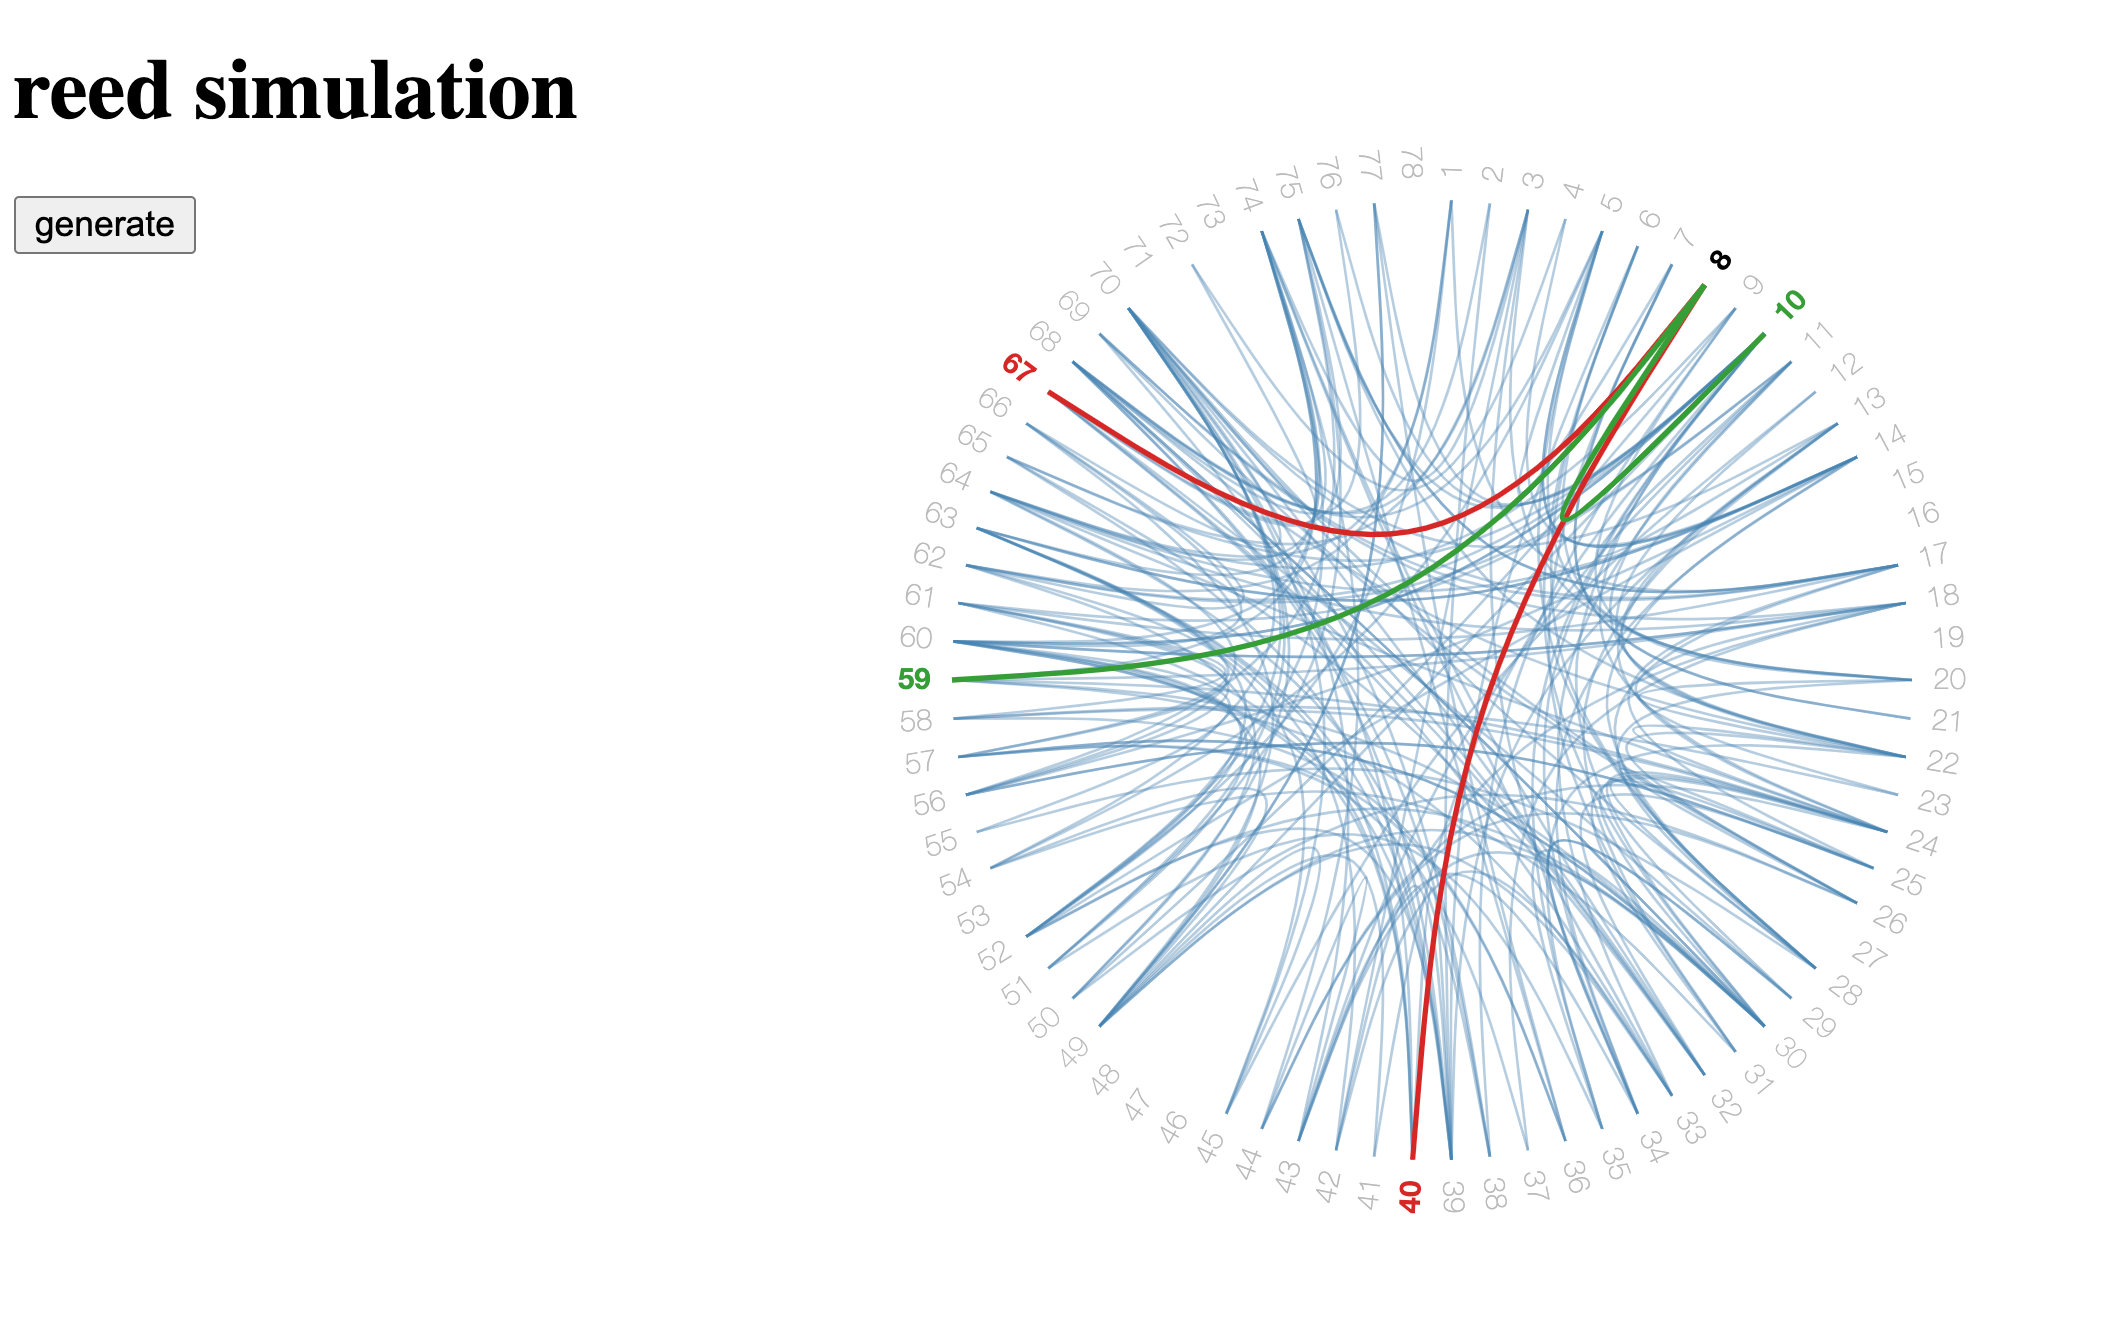
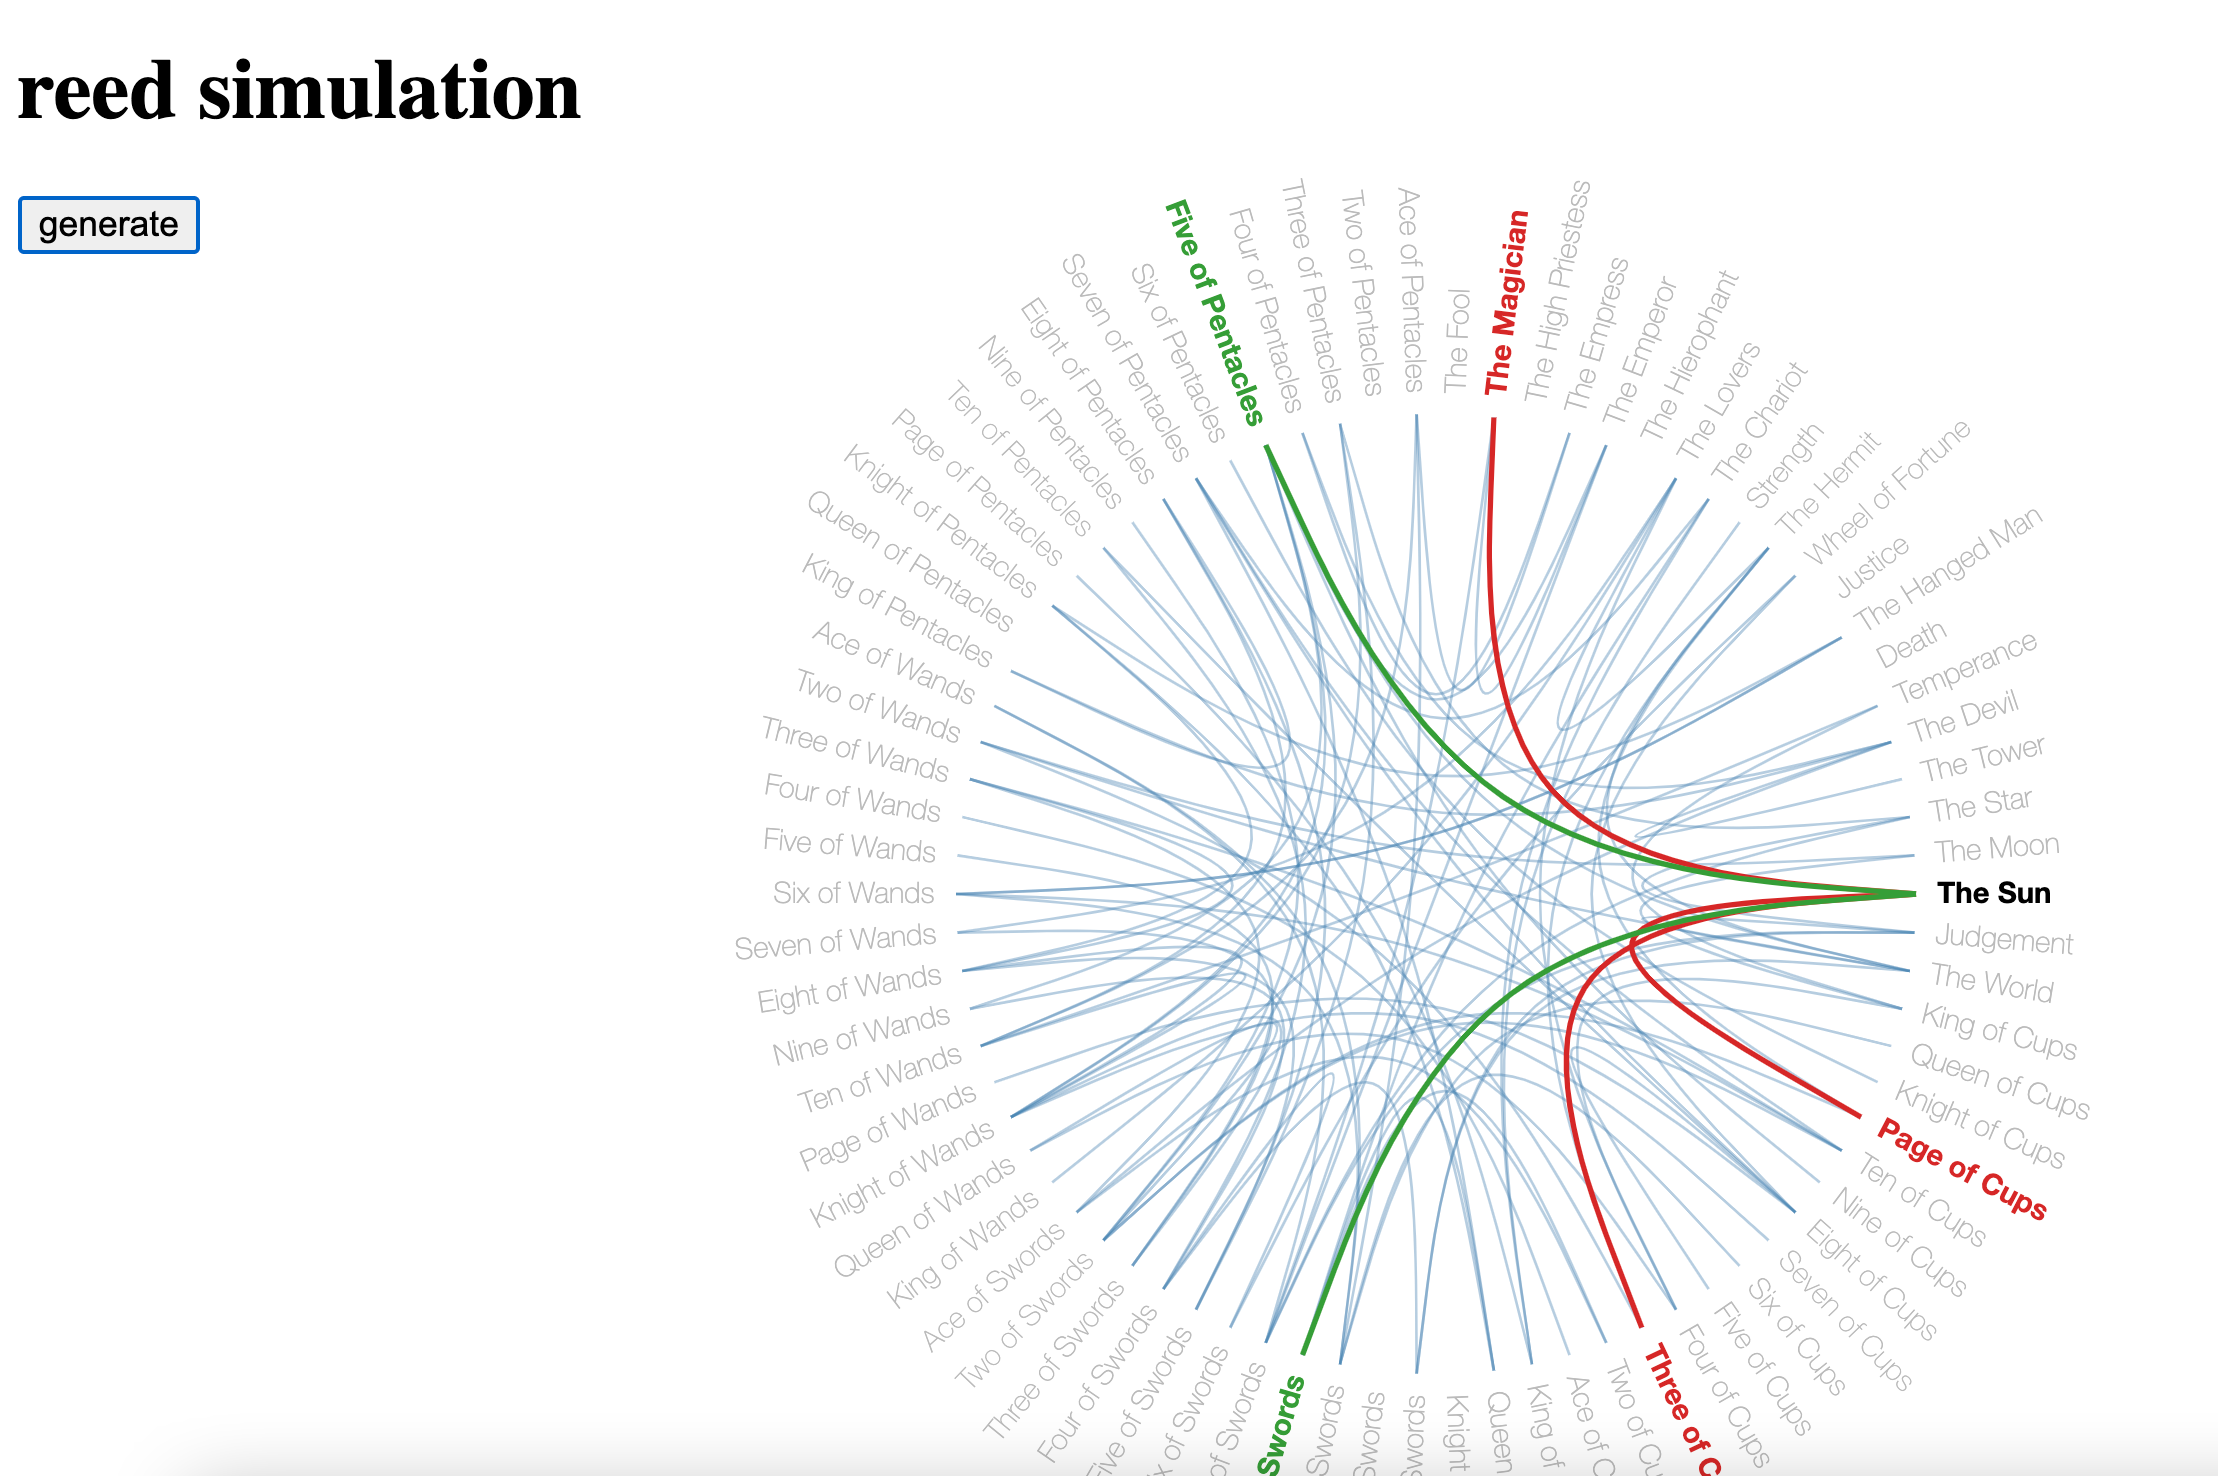
updated visual

diff --git a/index.html b/index.html
@@ -14,7 +14,7 @@
 svg {
   margin: auto;
   display: block;
-  margin-top: -140px;
+  margin-top: -60px;
 }
 
 .link {
@@ -59,84 +59,84 @@ svg {
 </body>
 <script type="text/javascript">
   const tarots = {
-  1: '1',
-  2: '2',
-  3: '3',
-  4: '4',
-  5: '5',
-  6: '6',
-  7: '7',
-  8: '8',
-  9: '9',
-  10: '10',
-  11: '11',
-  12: '12',
-  13: '13',
-  14: '14',
-  15: '15',
-  16: '16',
-  17: '17',
-  18: '18',
-  19: '19',
-  20: '20',
-  21: '21',
-  22: '22',
-  23: '23',
-  24: '24',
-  25: '25',
-  26: '26',
-  27: '27',
-  28: '28',
-  29: '29',
-  30: '30',
-  31: '31',
-  32: '32',
-  33: '33',
-  34: '34',
-  35: '35',
-  36: '36',
-  37: '37',
-  38: '38',
-  39: '39',
-  40: '40',
-  41: '41',
-  42: '42',
-  43: '43',
-  44: '44',
-  45: '45',
-  46: '46',
-  47: '47',
-  48: '48',
-  49: '49',
-  50: '50',
-  51: '51',
-  52: '52',
-  53: '53',
-  54: '54',
-  55: '55',
-  56: '56',
-  57: '57',
-  58: '58',
-  59: '59',
-  60: '60',
-  61: '61',
-  62: '62',
-  63: '63',
-  64: '64',
-  65: '65',
-  66: '66',
-  67: '67',
-  68: '68',
-  69: '69',
-  70: '70',
-  71: '71',
-  72: '72',
-  73: '73',
-  74: '74',
-  75: '75',
-  76: '76',
-  77: '77',
-  78: '78',
+  1: 'The Fool',
+  2: 'The Magician',
+  3: 'The High Priestess',
+  4: 'The Empress',
+  5: 'The Emperor',
+  6: 'The Hierophant',
+  7: 'The Lovers',
+  8: 'The Chariot',
+  9: 'Strength',
+  10: 'The Hermit',
+  11: 'Wheel of Fortune',
+  12: 'Justice',
+  13: 'The Hanged Man',
+  14: 'Death',
+  15: 'Temperance',
+  16: 'The Devil',
+  17: 'The Tower',
+  18: 'The Star',
+  19: 'The Moon',
+  20: 'The Sun',
+  21: 'Judgement',
+  22: 'The World',
+  23: 'King of Cups',
+  24: 'Queen of Cups',
+  25: 'Knight of Cups',
+  26: 'Page of Cups',
+  27: 'Ten of Cups',
+  28: 'Nine of Cups',
+  29: 'Eight of Cups',
+  30: 'Seven of Cups',
+  31: 'Six of Cups',
+  32: 'Five of Cups',
+  33: 'Four of Cups',
+  34: 'Three of Cups',
+  35: 'Two of Cups',
+  36: 'Ace of Cups',
+  37: 'King of Swords',
+  38: 'Queen of Swords',
+  39: 'Knight of Swords',
+  40: 'Page of Swords',
+  41: 'Ten of Swords',
+  42: 'Nine of Swords',
+  43: 'Eight of Swords',
+  44: 'Seven of Swords',
+  45: 'Six of Swords',
+  46: 'Five of Swords',
+  47: 'Four of Swords',
+  48: 'Three of Swords',
+  49: 'Two of Swords',
+  50: 'Ace of Swords',
+  51: 'King of Wands',
+  52: 'Queen of Wands',
+  53: 'Knight of Wands',
+  54: 'Page of Wands',
+  55: 'Ten of Wands',
+  56: 'Nine of Wands',
+  57: 'Eight of Wands',
+  58: 'Seven of Wands',
+  59: 'Six of Wands',
+  60: 'Five of Wands',
+  61: 'Four of Wands',
+  62: 'Three of Wands',
+  63: 'Two of Wands',
+  64: 'Ace of Wands',
+  65: 'King of Pentacles',
+  66: 'Queen of Pentacles',
+  67: 'Knight of Pentacles',
+  68: 'Page of Pentacles',
+  69: 'Ten of Pentacles',
+  70: 'Nine of Pentacles',
+  71: 'Eight of Pentacles',
+  72: 'Seven of Pentacles',
+  73: 'Six of Pentacles',
+  74: 'Five of Pentacles',
+  75: 'Four of Pentacles',
+  76: 'Three of Pentacles',
+  77: 'Two of Pentacles',
+  78: 'Ace of Pentacles',
 }
   class Reed {
   constructor(){
@@ -165,19 +165,19 @@ svg {
   generateBatch(batchSize){
 
     const batch = []
-
+    let ranCard;
     // generate 3 random cards
     for(let i = 0; i < batchSize; i++){
 
       // randomize between: 78
-      const ran = 1 + Math.round(Math.random() * 77)
+      ranCard = 1 + Math.round(Math.random() * 77)
 
-      batch.push(tarots[ran])
+      batch.push(tarots[ranCard])
     }
 
     const ran = Math.round(Math.random() * 2)
 
-    return {signifier: batch[ran], batch: batch}
+    return {i: ranCard, signifier: batch[ran], batch: batch}
   }
 
   atlas(){
@@ -188,7 +188,7 @@ svg {
   function generate(){
     if(document.getElementById('radial')) document.getElementById('radial').remove()
     const reed = new Reed()
-    const sim = reed.simulate(200)
+    const sim = reed.simulate(100)
     console.log(sim)
 
     // const classes =[
@@ -199,94 +199,94 @@ svg {
 
 
 
-    const classes =[
-      {"name":"1", "imports":[]},
-      {"name":"2", "imports":[]},
-      {"name":"3", "imports":[]},
-      {"name":"4", "imports":[]},
-      {"name":"5", "imports":[]},
-      {"name":"6", "imports":[]},
-      {"name":"7", "imports":[]},
-      {"name":"8", "imports":[]},
-      {"name":"9", "imports":[]},
-      {"name":"10", "imports":[]},
-      {"name":"11", "imports":[]},
-      {"name":"12", "imports":[]},
-      {"name":"13", "imports":[]},
-      {"name":"14", "imports":[]},
-      {"name":"15", "imports":[]},
-      {"name":"16", "imports":[]},
-      {"name":"17", "imports":[]},
-      {"name":"18", "imports":[]},
-      {"name":"19", "imports":[]},
-      {"name":"20", "imports":[]},
-      {"name":"21", "imports":[]},
-      {"name":"22", "imports":[]},
-      {"name":"23", "imports":[]},
-      {"name":"24", "imports":[]},
-      {"name":"25", "imports":[]},
-      {"name":"26", "imports":[]},
-      {"name":"27", "imports":[]},
-      {"name":"28", "imports":[]},
-      {"name":"29", "imports":[]},
-      {"name":"30", "imports":[]},
-      {"name":"31", "imports":[]},
-      {"name":"32", "imports":[]},
-      {"name":"33", "imports":[]},
-      {"name":"34", "imports":[]},
-      {"name":"35", "imports":[]},
-      {"name":"36", "imports":[]},
-      {"name":"37", "imports":[]},
-      {"name":"38", "imports":[]},
-      {"name":"39", "imports":[]},
-      {"name":"40", "imports":[]},
-      {"name":"41", "imports":[]},
-      {"name":"42", "imports":[]},
-      {"name":"43", "imports":[]},
-      {"name":"44", "imports":[]},
-      {"name":"45", "imports":[]},
-      {"name":"46", "imports":[]},
-      {"name":"47", "imports":[]},
-      {"name":"48", "imports":[]},
-      {"name":"49", "imports":[]},
-      {"name":"50", "imports":[]},
-      {"name":"51", "imports":[]},
-      {"name":"52", "imports":[]},
-      {"name":"53", "imports":[]},
-      {"name":"54", "imports":[]},
-      {"name":"55", "imports":[]},
-      {"name":"56", "imports":[]},
-      {"name":"57", "imports":[]},
-      {"name":"58", "imports":[]},
-      {"name":"59", "imports":[]},
-      {"name":"60", "imports":[]},
-      {"name":"61", "imports":[]},
-      {"name":"62", "imports":[]},
-      {"name":"63", "imports":[]},
-      {"name":"64", "imports":[]},
-      {"name":"65", "imports":[]},
-      {"name":"66", "imports":[]},
-      {"name":"67", "imports":[]},
-      {"name":"68", "imports":[]},
-      {"name":"69", "imports":[]},
-      {"name":"70", "imports":[]},
-      {"name":"71", "imports":[]},
-      {"name":"72", "imports":[]},
-      {"name":"73", "imports":[]},
-      {"name":"74", "imports":[]},
-      {"name":"75", "imports":[]},
-      {"name":"76", "imports":[]},
-      {"name":"77", "imports":[]},
-      {"name":"78", "imports":[]},
-    ]
+const classes = [
+  {name: 'The Fool',"imports":[]},
+  {name: 'The Magician',"imports":[]},
+  {name: 'The High Priestess',"imports":[]},
+  {name: 'The Empress',"imports":[]},
+  {name: 'The Emperor',"imports":[]},
+  {name: 'The Hierophant',"imports":[]},
+  {name: 'The Lovers',"imports":[]},
+  {name: 'The Chariot',"imports":[]},
+  {name: 'Strength',"imports":[]},
+  {name: 'The Hermit',"imports":[]},
+  {name: 'Wheel of Fortune',"imports":[]},
+  {name: 'Justice',"imports":[]},
+  {name: 'The Hanged Man',"imports":[]},
+  {name: 'Death',"imports":[]},
+  {name: 'Temperance',"imports":[]},
+  {name: 'The Devil',"imports":[]},
+  {name: 'The Tower',"imports":[]},
+  {name: 'The Star',"imports":[]},
+  {name: 'The Moon',"imports":[]},
+  {name: 'The Sun',"imports":[]},
+  {name: 'Judgement',"imports":[]},
+  {name: 'The World',"imports":[]},
+  {name: 'King of Cups',"imports":[]},
+  {name: 'Queen of Cups',"imports":[]},
+  {name: 'Knight of Cups',"imports":[]},
+  {name: 'Page of Cups',"imports":[]},
+  {name: 'Ten of Cups',"imports":[]},
+  {name: 'Nine of Cups',"imports":[]},
+  {name: 'Eight of Cups',"imports":[]},
+  {name: 'Seven of Cups',"imports":[]},
+  {name: 'Six of Cups',"imports":[]},
+  {name: 'Five of Cups',"imports":[]},
+  {name: 'Four of Cups',"imports":[]},
+  {name: 'Three of Cups',"imports":[]},
+  {name: 'Two of Cups',"imports":[]},
+  {name: 'Ace of Cups',"imports":[]},
+  {name: 'King of Swords',"imports":[]},
+  {name: 'Queen of Swords',"imports":[]},
+  {name: 'Knight of Swords',"imports":[]},
+  {name: 'Page of Swords',"imports":[]},
+  {name: 'Ten of Swords',"imports":[]},
+  {name: 'Nine of Swords',"imports":[]},
+  {name: 'Eight of Swords',"imports":[]},
+  {name: 'Seven of Swords',"imports":[]},
+  {name: 'Six of Swords',"imports":[]},
+  {name: 'Five of Swords',"imports":[]},
+  {name: 'Four of Swords',"imports":[]},
+  {name: 'Three of Swords',"imports":[]},
+  {name: 'Two of Swords',"imports":[]},
+  {name: 'Ace of Swords',"imports":[]},
+  {name: 'King of Wands',"imports":[]},
+  {name: 'Queen of Wands',"imports":[]},
+  {name: 'Knight of Wands',"imports":[]},
+  {name: 'Page of Wands',"imports":[]},
+  {name: 'Ten of Wands',"imports":[]},
+  {name: 'Nine of Wands',"imports":[]},
+  {name: 'Eight of Wands',"imports":[]},
+  {name: 'Seven of Wands',"imports":[]},
+  {name: 'Six of Wands',"imports":[]},
+  {name: 'Five of Wands',"imports":[]},
+  {name: 'Four of Wands',"imports":[]},
+  {name: 'Three of Wands',"imports":[]},
+  {name: 'Two of Wands',"imports":[]},
+  {name: 'Ace of Wands',"imports":[]},
+  {name: 'King of Pentacles',"imports":[]},
+  {name: 'Queen of Pentacles',"imports":[]},
+  {name: 'Knight of Pentacles',"imports":[]},
+  {name: 'Page of Pentacles',"imports":[]},
+  {name: 'Ten of Pentacles',"imports":[]},
+  {name: 'Nine of Pentacles',"imports":[]},
+  {name: 'Eight of Pentacles',"imports":[]},
+  {name: 'Seven of Pentacles',"imports":[]},
+  {name: 'Six of Pentacles',"imports":[]},
+  {name: 'Five of Pentacles',"imports":[]},
+  {name: 'Four of Pentacles',"imports":[]},
+  {name: 'Three of Pentacles',"imports":[]},
+  {name: 'Two of Pentacles',"imports":[]},
+  {name: 'Ace of Pentacles',"imports":[]}
+]
 
-    for(let i = 1; i < sim.length; i++){
+    for(let i = 1; i < sim.length - 1; i++){
       console.log(sim[i])
       // convert card to index
-      const index = Number(sim[i].signifier) - 1
-      console.log(index)
-      console.log(classes[index]['imports'])
-      classes[index]['imports'].push(sim[i-1].signifier)
+      // const index = Number(sim[i].signifier) - 1
+      // console.log(index)
+      // console.log(classes[index]['imports'])
+      classes[sim[i].i]['imports'].push(sim[i-1].signifier)
     }
 
     console.log(classes)
